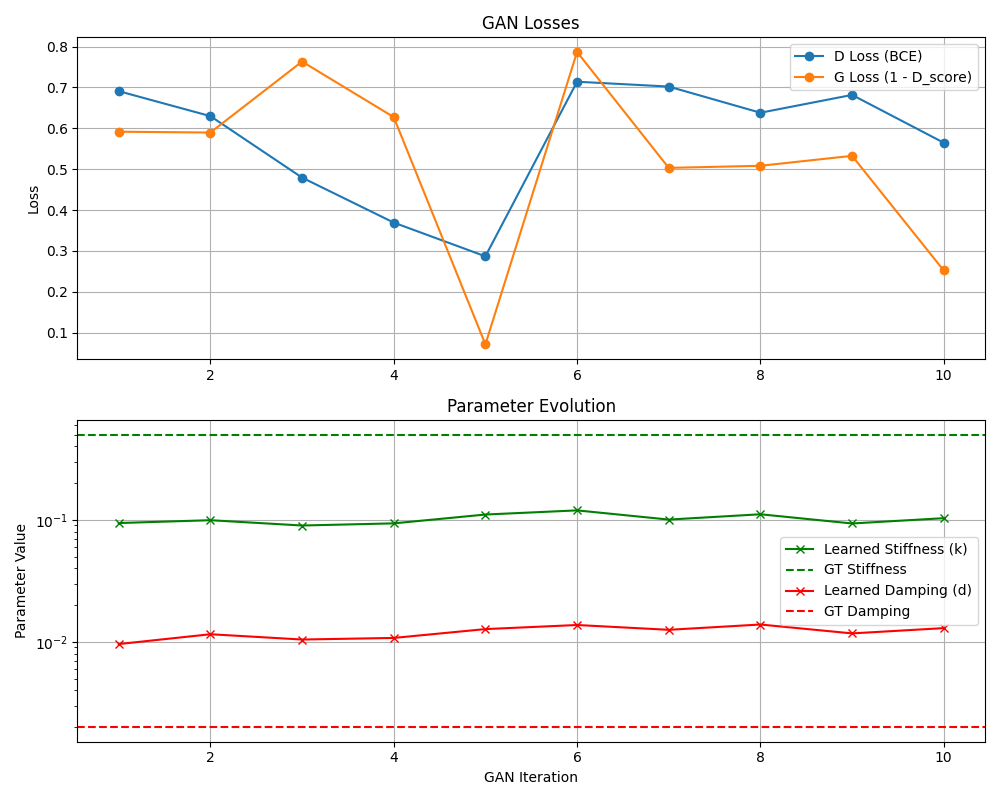
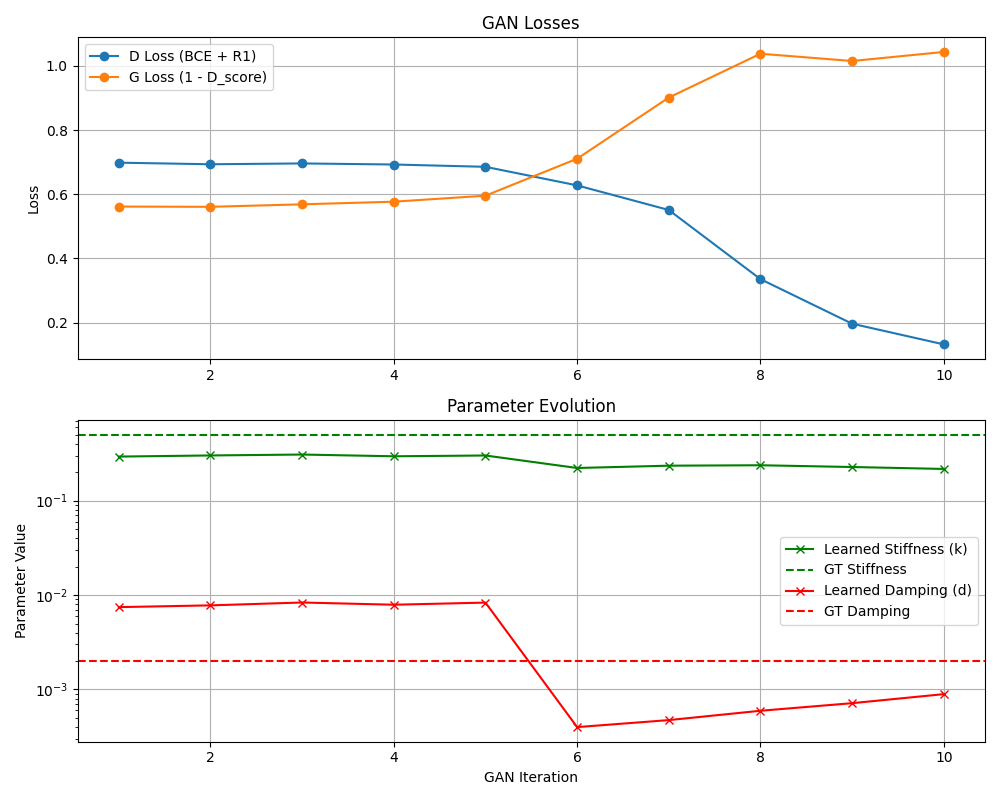
about another training run

diff --git a/adversarial_training.py b/adversarial_training.py
@@ -23,21 +23,21 @@ def get_default_config():
         "mppi_noise_sigma": 5.0,
         "mppi_samples": 256,
         "num_goals": 10,
-        "num_goals_gen_train": 1,
+        "num_goals_gen_train": 5,
         "goal_dist_mean": [0.0, 0.0, 0.0],
         "goal_dist_std": [1.0, 0.0, 0.0],
-        "gan_iterations": 25,
+        "gan_iterations": 20,
         "d_epochs": 20,
-        "d_lr": 0.0025,
+        "d_lr": 0.00025,
         "d_batch_size": 16,
-        "d_r1_gamma": 1e-1,          # ← NEW: set to 0.0 to disable R1 reg
+        "d_r1_gamma": 2.0,          # ← NEW: set to 0.0 to disable R1 reg
         "g_optim_algo": "GD",
-        "g_max_iters": 5,
-        "g_lr": 0.25,
+        "g_max_iters": 50,
+        "g_lr": 0.5,
         "g_eps": 0.0001,
         "g_reg": 1e-1,
-        "g_l2_weight": 1.0,
-        "init_k": 0.1,
+        "g_l2_weight": 1e-2,
+        "init_k": 0.4,
         "init_d": 0.01,
         "gt_k": 0.5,
         "gt_d": 0.002,